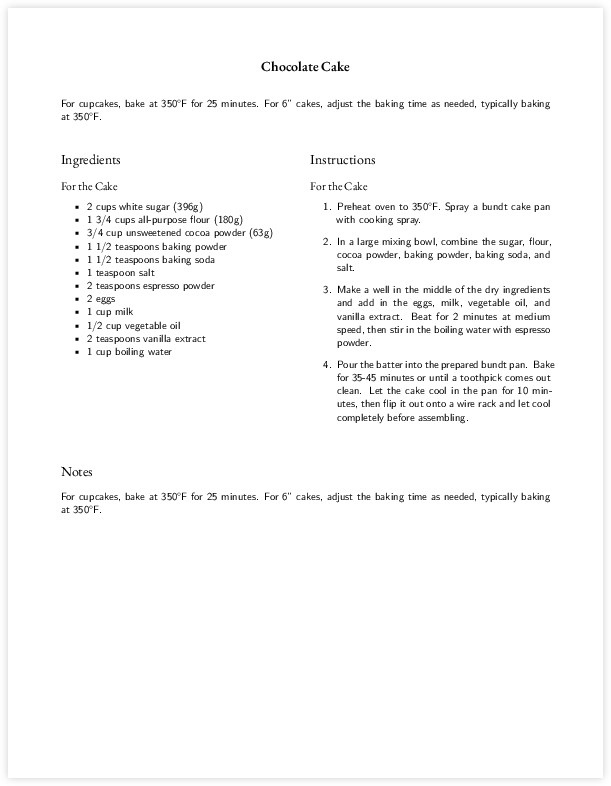
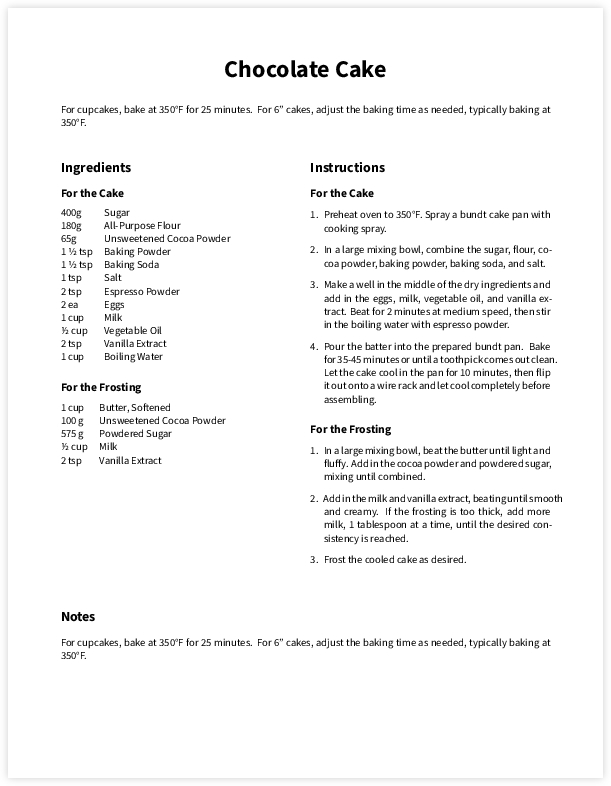
Updated XeTeX recipe with new format, added PDF download link, refreshed timestamps, and improved instruction clarity.

diff --git a/dist/experiments/xetex.html b/dist/experiments/xetex.html
@@ -12,25 +12,22 @@
     </header>
     <h1>XeTeX</h1>
     <h2>Recipes</h2>
+<p><a href="/static/images/xetex/recipe.pdf">Download PDF</a></p>
 <p><img alt="Recipe" src="/static/images/xetex/recipe.jpg" /></p>
 <pre><code>\documentclass[11pt]{article}
 \usepackage{fontspec}
 \usepackage{geometry}
-\usepackage{titlesec}
 \usepackage{enumitem}
 \usepackage{graphicx}
 \usepackage{paracol}
 \usepackage{microtype}
 \geometry{letterpaper, margin=0.75in}
-\setmainfont{Latin Modern Sans}
-\newfontfamily\headingfont{EB Garamond}
-\titleformat*{\section}{\Large\headingfont}
-\titleformat*{\subsection}{\large\headingfont}
-\titleformat*{\subsubsection}{\normalsize\headingfont}
+\setmainfont{Source Sans 3}
+\newfontfamily\headingfont{Source Sans 3}
 \pagestyle{empty}
 \begin{document}
 \begin{center}
-    {\Large \bfseries \headingfont Chocolate Cake}
+    {\Huge \bfseries \headingfont Chocolate Cake}
 \end{center}
 \vspace{1em}
 For cupcakes, bake at 350°F for 25 minutes. For 6” cakes, adjust the baking time as needed, typically baking at 350°F.
@@ -38,28 +35,42 @@ For cupcakes, bake at 350°F for 25 minutes. For 6” cakes, adjust the baking t
 \begin{paracol}{2}
 \section*{Ingredients}
 \subsection*{For the Cake}
-\begin{itemize}[noitemsep]
-    \item 2 cups white sugar (396g)
-    \item 1 3⁄4 cups all-purpose flour (180g)
-    \item 3⁄4 cup unsweetened cocoa powder (63g)
-    \item 1 1⁄2 teaspoons baking powder
-    \item 1 1⁄2 teaspoons baking soda
-    \item 1 teaspoon salt
-    \item 2 teaspoons espresso powder
-    \item 2 eggs
-    \item 1 cup milk
-    \item 1⁄2 cup vegetable oil
-    \item 2 teaspoons vanilla extract
-    \item 1 cup boiling water
-\end{itemize}
+\begin{tabular}{@{}ll}
+400g &amp; Sugar \\
+180g &amp; All-Purpose Flour \\
+65g &amp; Unsweetened Cocoa Powder \\
+1 1⁄2 tsp &amp; Baking Powder \\
+1 1⁄2 tsp &amp; Baking Soda \\
+1 tsp &amp; Salt \\
+2 tsp &amp; Espresso Powder \\
+2 ea &amp; Eggs \\
+1 cup &amp; Milk \\
+1⁄2 cup &amp; Vegetable Oil \\
+2 tsp &amp; Vanilla Extract \\
+1 cup &amp; Boiling Water \\
+\end{tabular}
+\subsection*{For the Frosting}
+\begin{tabular}{@{}ll}
+1 cup &amp; Butter, Softened \\
+100 g &amp; Unsweetened Cocoa Powder \\
+575 g &amp; Powdered Sugar \\
+1⁄2 cup &amp; Milk \\
+2 tsp &amp; Vanilla Extract \\
+\end{tabular}
 \switchcolumn
 \section*{Instructions}
 \subsection*{For the Cake}
-\begin{enumerate}
+\begin{enumerate}[leftmargin=*]
     \item Preheat oven to 350°F. Spray a bundt cake pan with cooking spray.
     \item In a large mixing bowl, combine the sugar, flour, cocoa powder, baking powder, baking soda, and salt.
     \item Make a well in the middle of the dry ingredients and add in the eggs, milk, vegetable oil, and vanilla extract. Beat for 2 minutes at medium speed, then stir in the boiling water with espresso powder.
     \item Pour the batter into the prepared bundt pan. Bake for 35-45 minutes or until a toothpick comes out clean. Let the cake cool in the pan for 10 minutes, then flip it out onto a wire rack and let cool completely before assembling.
+\end{enumerate}
+\subsection*{For the Frosting}
+\begin{enumerate}[leftmargin=*]
+    \item In a large mixing bowl, beat the butter until light and fluffy. Add in the cocoa powder and powdered sugar, mixing until combined.
+    \item Add in the milk and vanilla extract, beating until smooth and creamy. If the frosting is too thick, add more milk, 1 tablespoon at a time, until the desired consistency is reached.
+    \item Frost the cooled cake as desired.
 \end{enumerate}
 \end{paracol}
 \vspace{1em}
@@ -78,7 +89,7 @@ For cupcakes, bake at 350°F for 25 minutes. For 6” cakes, adjust the baking t
 <pre><code>convert example.jpg \( +clone -background black -shadow 20x4+0+0 \) +swap -background white -layers merge +repage example_shadow.jpg
 </code></pre>
     <footer>
-        <p>Last updated on 2024-05-01 17:28:55</p>
+        <p>Last updated on 2024-05-03 05:56:31</p>
     </footer>
 </body>
 </html>

diff --git a/dist/projects/djinn.html b/dist/projects/djinn.html
@@ -12,7 +12,7 @@
     </header>
     <h1>Djinn</h1>
     <h2>README</h2>
-<div class="embed"><p>Embedded from <a href="https://raw.githubusercontent.com/kkestell/djinn/main/README.md">https://raw.githubusercontent.com/kkestell/djinn/main/README.md</a> on 2024-05-02 19:58:18</p><div class="embed-content">
+<div class="embed"><p>Embedded from <a href="https://raw.githubusercontent.com/kkestell/djinn/main/README.md">https://raw.githubusercontent.com/kkestell/djinn/main/README.md</a> on 2024-05-03 05:56:49</p><div class="embed-content">
 <h1>Djinn</h1>
 <h2>Overview</h2>
 <p>Djinn is a command-line application for downloading music using Soulseek, with metadata from MusicBrainz and Last.fm.</p>

diff --git a/dist/reference/workstation.html b/dist/reference/workstation.html
@@ -62,7 +62,7 @@
 <h2>Software</h2>
 <p>Arch / KDE / Wayland</p>
 <h3>Setup</h3>
-<div class="embed"><p>Embedded from <a href="https://raw.githubusercontent.com/kkestell/dotfiles/main/README.md">https://raw.githubusercontent.com/kkestell/dotfiles/main/README.md</a> on 2024-05-02 19:58:19</p><div class="embed-content">
+<div class="embed"><p>Embedded from <a href="https://raw.githubusercontent.com/kkestell/dotfiles/main/README.md">https://raw.githubusercontent.com/kkestell/dotfiles/main/README.md</a> on 2024-05-03 05:56:49</p><div class="embed-content">
 <h1>Arch</h1>
 <h2>Network Shares</h2>
 <p>Add the following to <code>/etc/fstab</code>:</p>

diff --git a/src/content/3_experiments/xetex.md b/src/content/3_experiments/xetex.md
@@ -6,27 +6,25 @@ draft: false
 
 ## Recipes
 
+[Download PDF](/static/images/xetex/recipe.pdf)
+
 ![Recipe](/static/images/xetex/recipe.jpg)
 
 ```
 \documentclass[11pt]{article}
 \usepackage{fontspec}
 \usepackage{geometry}
-\usepackage{titlesec}
 \usepackage{enumitem}
 \usepackage{graphicx}
 \usepackage{paracol}
 \usepackage{microtype}
 \geometry{letterpaper, margin=0.75in}
-\setmainfont{Latin Modern Sans}
-\newfontfamily\headingfont{EB Garamond}
-\titleformat*{\section}{\Large\headingfont}
-\titleformat*{\subsection}{\large\headingfont}
-\titleformat*{\subsubsection}{\normalsize\headingfont}
+\setmainfont{Source Sans 3}
+\newfontfamily\headingfont{Source Sans 3}
 \pagestyle{empty}
 \begin{document}
 \begin{center}
-    {\Large \bfseries \headingfont Chocolate Cake}
+    {\Huge \bfseries \headingfont Chocolate Cake}
 \end{center}
 \vspace{1em}
 For cupcakes, bake at 350°F for 25 minutes. For 6” cakes, adjust the baking time as needed, typically baking at 350°F.
@@ -34,28 +32,42 @@ For cupcakes, bake at 350°F for 25 minutes. For 6” cakes, adjust the baking t
 \begin{paracol}{2}
 \section*{Ingredients}
 \subsection*{For the Cake}
-\begin{itemize}[noitemsep]
-    \item 2 cups white sugar (396g)
-    \item 1 3⁄4 cups all-purpose flour (180g)
-    \item 3⁄4 cup unsweetened cocoa powder (63g)
-    \item 1 1⁄2 teaspoons baking powder
-    \item 1 1⁄2 teaspoons baking soda
-    \item 1 teaspoon salt
-    \item 2 teaspoons espresso powder
-    \item 2 eggs
-    \item 1 cup milk
-    \item 1⁄2 cup vegetable oil
-    \item 2 teaspoons vanilla extract
-    \item 1 cup boiling water
-\end{itemize}
+\begin{tabular}{@{}ll}
+400g & Sugar \\
+180g & All-Purpose Flour \\
+65g & Unsweetened Cocoa Powder \\
+1 1⁄2 tsp & Baking Powder \\
+1 1⁄2 tsp & Baking Soda \\
+1 tsp & Salt \\
+2 tsp & Espresso Powder \\
+2 ea & Eggs \\
+1 cup & Milk \\
+1⁄2 cup & Vegetable Oil \\
+2 tsp & Vanilla Extract \\
+1 cup & Boiling Water \\
+\end{tabular}
+\subsection*{For the Frosting}
+\begin{tabular}{@{}ll}
+1 cup & Butter, Softened \\
+100 g & Unsweetened Cocoa Powder \\
+575 g & Powdered Sugar \\
+1⁄2 cup & Milk \\
+2 tsp & Vanilla Extract \\
+\end{tabular}
 \switchcolumn
 \section*{Instructions}
 \subsection*{For the Cake}
-\begin{enumerate}
+\begin{enumerate}[leftmargin=*]
     \item Preheat oven to 350°F. Spray a bundt cake pan with cooking spray.
     \item In a large mixing bowl, combine the sugar, flour, cocoa powder, baking powder, baking soda, and salt.
     \item Make a well in the middle of the dry ingredients and add in the eggs, milk, vegetable oil, and vanilla extract. Beat for 2 minutes at medium speed, then stir in the boiling water with espresso powder.
     \item Pour the batter into the prepared bundt pan. Bake for 35-45 minutes or until a toothpick comes out clean. Let the cake cool in the pan for 10 minutes, then flip it out onto a wire rack and let cool completely before assembling.
+\end{enumerate}
+\subsection*{For the Frosting}
+\begin{enumerate}[leftmargin=*]
+    \item In a large mixing bowl, beat the butter until light and fluffy. Add in the cocoa powder and powdered sugar, mixing until combined.
+    \item Add in the milk and vanilla extract, beating until smooth and creamy. If the frosting is too thick, add more milk, 1 tablespoon at a time, until the desired consistency is reached.
+    \item Frost the cooled cake as desired.
 \end{enumerate}
 \end{paracol}
 \vspace{1em}
